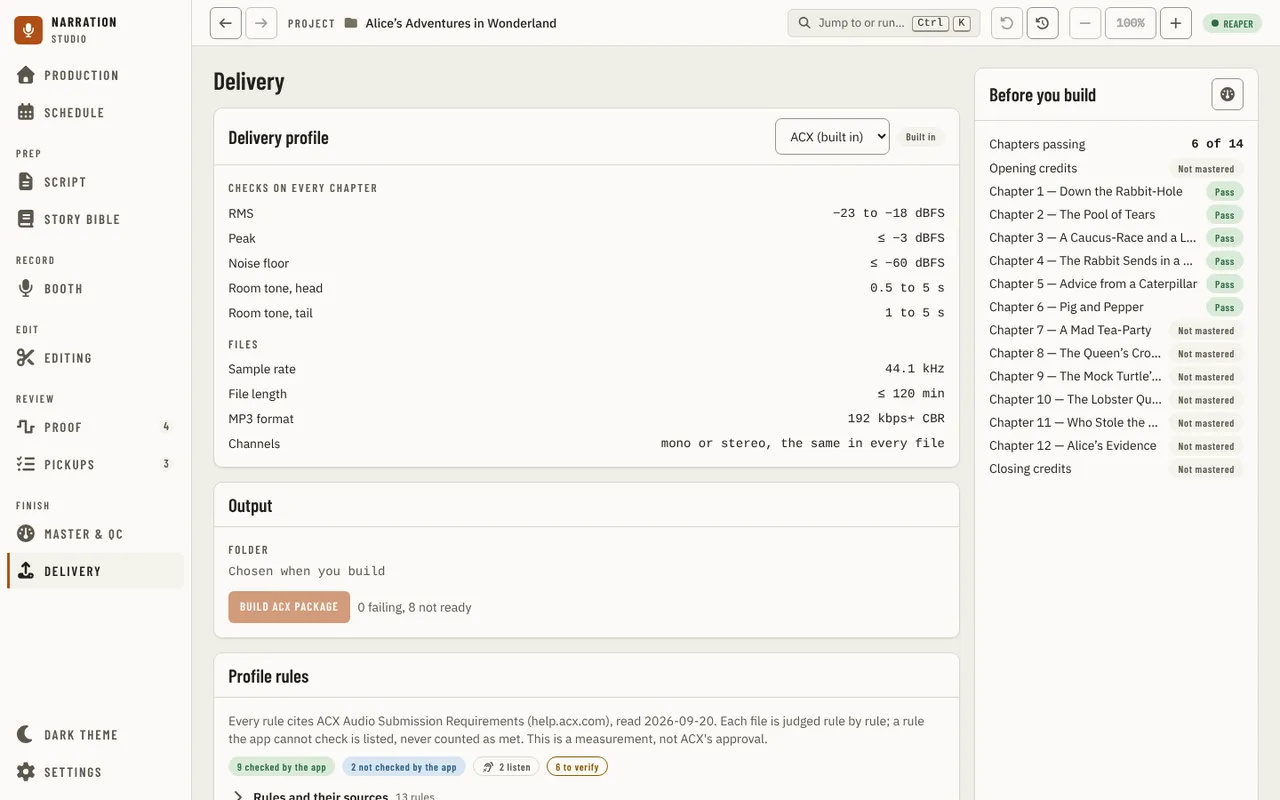
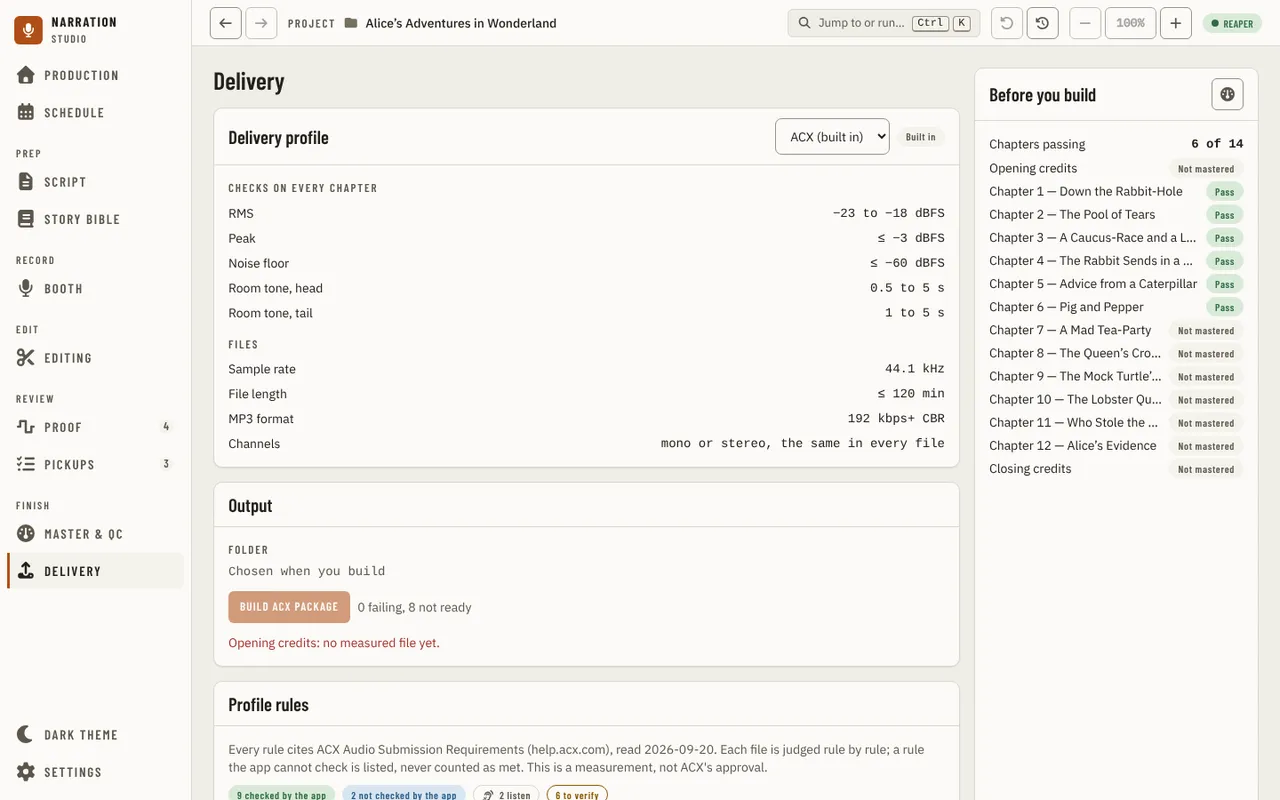
fix(ui): name the first not-ready chapter beside Build and test the failure line
Refs #1852

Claude-Session: https://claude.ai/code/session_01AC84YQNKHsqeHpGiLmKtHK

Changed region(s): [[0.1562, 0.7812, 0.75, 1.0]]

diff --git a/apps/ui/src/components/master/fileVerdict.test.ts b/apps/ui/src/components/master/fileVerdict.test.ts
@@ -3,8 +3,8 @@ import { join } from 'node:path';
 import { describe, expect, it } from 'vitest';
 import { MOCK_ACX } from '../../api/deliveryProfilesMock';
 import { measureJobSchema } from '../../api/schemas/measure';
-import type { MeasureFileResult } from '../../types';
-import { fileVerdict, leftToCheck, misses, suggestedFix } from './fileVerdict';
+import type { DeliveryProfile, DeliveryRule, DeliveryRuleResult, MeasureFileResult } from '../../types';
+import { fileVerdict, leftToCheck, misses, missesWithLimit, suggestedFix } from './fileVerdict';
 
 // The host's own judged payload (bindings_measure_contract_test.go): Chapter 01 at 48 kHz, Chapter 02 silent, Chapter 03 unreadable.
 const measured = measureJobSchema.parse(
@@ -47,5 +47,55 @@ describe('misses', () => {
     expect(suggestedFix(noise, { ruleId: noise.id, status: 'not_met', value: -57.8, violation: 'above_max' })).toMatch(
       /^Mastering does not lower the noise floor/,
     );
+  });
+});
+
+describe('missesWithLimit', () => {
+  const rule = (over: Partial<DeliveryRule>): DeliveryRule => ({
+    ...MOCK_ACX.rules[0],
+    min: null,
+    max: null,
+    oneOf: [],
+    sameAcrossFiles: false,
+    unit: '',
+    ...over,
+  });
+  const against = (...rules: DeliveryRule[]): DeliveryProfile => ({ ...MOCK_ACX, rules });
+  const missed = (target: DeliveryRule, value: number | null, violation: DeliveryRuleResult['violation'] = 'above_max'): MeasureFileResult => ({
+    ...file('Chapter 01.wav'),
+    rules: [{ ruleId: target.id, status: 'not_met', value, violation }],
+  });
+
+  it('says the value and the limit of a level, a duration and a sample rate in the units a narrator reads', () => {
+    const noise = rule({ id: 'n', label: 'Noise floor', metric: 'noise_floor_dbfs', unit: 'dBFS', max: -60 });
+    expect(missesWithLimit(missed(noise, -57.8), against(noise))).toEqual(['noise floor −57.8 dBFS (limit ≤ −60 dBFS)']);
+    const length = rule({ id: 'd', label: 'Length', metric: 'duration_seconds', unit: 's', max: 7200 });
+    expect(missesWithLimit(missed(length, 7500), against(length))).toEqual(['length 2:05:00 (limit ≤ 120 min)']);
+    const rate = rule({ id: 'r', label: 'Sample rate', metric: 'sample_rate', unit: 'Hz', oneOf: [44100] });
+    expect(missesWithLimit(missed(rate, 48000, 'not_one_of'), against(rate))).toEqual(['sample rate 48 kHz (limit 44.1 kHz)']);
+  });
+
+  it('reads a one-of rule that must match in every file, and a rule with a limit in words', () => {
+    const rate = rule({ id: 'r', label: 'Sample rate', metric: 'sample_rate', unit: 'Hz', oneOf: [44100, 48000], sameAcrossFiles: true });
+    expect(missesWithLimit(missed(rate, 32000, 'not_one_of'), against(rate))).toEqual([
+      'sample rate 32 kHz (limit 44.1 kHz or 48 kHz, the same in every file)',
+    ]);
+    const bitrate = rule({ id: 'b', label: 'Bit rate', metric: 'bitrate', boundText: '192 kbps+ CBR' });
+    expect(missesWithLimit(missed(bitrate, 128), against(bitrate))).toEqual(['bit rate 128 (limit 192 kbps+ CBR)']);
+  });
+
+  it('leaves out the value a missed rule has none of, and the limit a rule has no text for, and still names the rule', () => {
+    const noise = rule({ id: 'n', label: 'Noise floor', metric: 'noise_floor_dbfs', unit: 'dBFS', max: -60 });
+    expect(missesWithLimit(missed(noise, null), against(noise))).toEqual(['noise floor (limit ≤ −60 dBFS)']);
+    const open = rule({ id: 'o', label: 'Peak', metric: 'sample_peak_dbfs', unit: 'dBFS' });
+    expect(missesWithLimit(missed(open, -1.5), against(open))).toEqual(['peak −1.5 dBFS']);
+    expect(missesWithLimit(missed(open, null), against(open))).toEqual(['peak']);
+  });
+
+  it('skips a miss whose rule the profile no longer has, and any rule that was met', () => {
+    const noise = rule({ id: 'n', label: 'Noise floor', metric: 'noise_floor_dbfs', unit: 'dBFS', max: -60 });
+    expect(missesWithLimit(missed(noise, -57.8), against())).toEqual([]);
+    const met: MeasureFileResult = { ...file('Chapter 01.wav'), rules: [{ ruleId: noise.id, status: 'met', value: -64 }] };
+    expect(missesWithLimit(met, against(noise))).toEqual([]);
   });
 });

diff --git a/apps/ui/src/components/delivery/page/chapterStates.test.ts b/apps/ui/src/components/delivery/page/chapterStates.test.ts
@@ -1,0 +1,44 @@
+import { describe, expect, it } from 'vitest';
+import type { MeasureFileResult } from '../../../types';
+import { failingTwo, passing, profile, waiting } from '../../masterqc/files/testFiles';
+import { firstFailure, firstNotReady } from './chapterStates';
+
+const chapters = [1, 2, 3, 4].map((n) => ({ id: `c${n}`, title: `Chapter 0${n}`, index: n - 1 }));
+const all = [passing('Chapter 01.wav'), passing('Chapter 02.wav'), passing('Chapter 03.wav'), passing('Chapter 04.wav')];
+const withFile = (index: number, file: MeasureFileResult) => all.map((each, at) => (at === index ? file : each));
+
+describe('firstNotReady', () => {
+  it('names nothing when every chapter has a verdict, a failing one included', () => {
+    expect(firstNotReady(chapters, all)).toBeUndefined();
+    expect(firstNotReady(chapters, withFile(3, failingTwo('Chapter 04.wav')))).toBeUndefined();
+  });
+
+  it('names the first chapter with no file at all', () => {
+    expect(firstNotReady(chapters, all.slice(0, 2))).toBe('Chapter 03: no measured file yet.');
+    expect(firstNotReady(chapters, all.slice(2))).toBe('Chapter 01: no measured file yet.');
+  });
+
+  it('names nothing on a book nobody has measured, where the count beside Build already says so', () => {
+    expect(firstNotReady(chapters, [])).toBeUndefined();
+  });
+
+  it('says why a chapter whose file is there is not ready: not measured yet, unreadable, partly unmeasurable, or nothing judged', () => {
+    expect(firstNotReady(chapters, withFile(1, { ...passing('Chapter 02.wav'), status: 'pending', rules: [] }))).toBe(
+      'Chapter 02: its file is not measured yet.',
+    );
+    expect(firstNotReady(chapters, withFile(1, { ...passing('Chapter 02.wav'), status: 'failed', rules: [] }))).toBe('Chapter 02: its file could not be read.');
+    expect(firstNotReady(chapters, withFile(2, waiting('Chapter 03.wav')))).toBe('Chapter 03: its file is not measured yet.');
+    const unjudged = { ...passing('Chapter 03.wav'), rules: passing('Chapter 03.wav').rules.map((rule) => ({ ...rule, status: 'not_checked' as const })) };
+    expect(firstNotReady(chapters, withFile(2, unjudged))).toBe('Chapter 03: the app judged nothing about its file.');
+    const silent = {
+      ...passing('Chapter 03.wav'),
+      rules: passing('Chapter 03.wav').rules.map((rule, at) => (at === 0 ? { ...rule, status: 'not_measurable' as const, value: null } : rule)),
+    };
+    expect(firstNotReady(chapters, withFile(2, silent))).toBe('Chapter 03: part of its file could not be measured.');
+  });
+
+  it('leaves a failing chapter to firstFailure, which names its rule, value and limit', () => {
+    const files = withFile(3, failingTwo('Chapter 04.wav')).slice(0, 4);
+    expect(firstFailure(chapters, files, profile)).toMatch(/^Chapter 04: noise floor/);
+  });
+});

diff --git a/apps/ui/tests/visual/catalog/delivery.ts b/apps/ui/tests/visual/catalog/delivery.ts
@@ -15,7 +15,19 @@ export const deliveryStates: StateEntry[] = [
     page: 'delivery',
     state: 'measured',
     description:
-      'Delivery with the book already checked (?mockMeasure=spread) - "Before you build" counting the chapters that pass, each row opening the chapter in Master & QC, and Output asking to master to spec first',
+      'Delivery with the book already checked (?mockMeasure=spread) - "Before you build" counting the chapters that pass, each row opening the chapter in Master & QC, and Output with Build off, counting the chapters not ready and naming the first of them in red ("Opening credits: no measured file yet.")',
+  },
+  {
+    page: 'delivery',
+    state: 'failing-chapter',
+    description:
+      'Delivery after Master & QC measured three files (the first at 48 kHz, the second silent, the third unreadable) - Build off, "1 failing, ..." and, in red under it, the first failing chapter with its rule, value and limit ("Chapter 1 — Down the Rabbit-Hole: sample rate 48 kHz (limit 44.1 kHz).")',
+  },
+  {
+    page: 'delivery',
+    state: 'many-chapters',
+    description:
+      'Delivery for a 5002-chapter book (?mockBooth=many-chapters) - the first hundred chapters listed under "Before you build", the count above them for the whole book, and "Show the other 4902 chapters" below the list',
   },
   {
     page: 'delivery',
@@ -57,7 +69,7 @@ export const deliveryStates: StateEntry[] = [
     page: 'delivery',
     state: 'host-quiet',
     description:
-      'Delivery with a build running and the host no longer answering (?mockDelivery=quiet) - "Can\'t tell how the build is going, last heard N s ago" with Check again, Cancel still offered',
+      'Delivery with a build running and the host no longer answering (?mockDelivery=quiet) - "Can\'t tell how the build is going, last heard N s ago" with Check again, Cancel still offered, and no "Every chapter passes." beside Build (it would be a stale fact)',
   },
   {
     page: 'delivery',

diff --git a/apps/ui/src/components/delivery/page/chapterStates.ts b/apps/ui/src/components/delivery/page/chapterStates.ts
@@ -41,6 +41,30 @@ export function firstFailure(chapters: readonly Listed[], files: readonly Measur
   return undefined;
 }
 
+/**
+ * When no chapter fails but some are not ready, the first of them in the rows' order and why: "Chapter 8: no measured file yet." (no file
+ * matches), "Chapter 8: not measured yet." / "could not be read." (its file is pending, cancelled or failed), or "Chapter 8: noise floor could not
+ * be measured." (a silent render). Nothing when every chapter has a verdict, or when no file was measured at all: the count beside Build
+ * already says that, and a red first chapter on an untouched book would only repeat it.
+ */
+export function firstNotReady(chapters: readonly Listed[], files: readonly MeasureFileResult[]): string | undefined {
+  if (files.length === 0) return undefined;
+  for (const chapter of chapters) {
+    const file = fileOf(chapter, files);
+    if (file && fileVerdict(file) !== 'none') continue;
+    return `${chapterName(chapter)}: ${notReadyWhy(file)}.`;
+  }
+  return undefined;
+}
+
+function notReadyWhy(file: MeasureFileResult | undefined): string {
+  if (!file) return 'no measured file yet';
+  if (file.status === 'failed') return 'its file could not be read';
+  if (file.status !== 'measured') return 'its file is not measured yet';
+  // The line says "measured" and fileVerdict said "none": either a rule could not be measured, or nothing was judged at all.
+  return file.rules.some((rule) => rule.status === 'not_measurable') ? 'part of its file could not be measured' : 'the app judged nothing about its file';
+}
+
 /** One row's state from its file: no file, or a file the host did not judge, is "Not mastered". */
 export function stateOf(base: { id: string; name: string }, file: MeasureFileResult | undefined): ChapterState {
   const verdict = file ? fileVerdict(file) : 'none';

diff --git a/apps/ui/tests/visual/drivers/delivery.ts b/apps/ui/tests/visual/drivers/delivery.ts
@@ -1,6 +1,6 @@
 // How to reach each `delivery` state in STATE_CATALOG (see app.drivers.ts).
 import { settlePage } from '../helpers/settle';
-import { type Driver, goToPage, panelTitled, scrollToTop } from './shared';
+import { type Driver, goToPage, measureOnMaster, measurementEnded, panelTitled, scrollToTop } from './shared';
 
 // Opens Delivery through the rail (after a reload with mock seams, when given) once the profile card and the chapters are read.
 async function openDelivery(page: Parameters<Driver>[0], query = ''): Promise<void> {
@@ -28,6 +28,16 @@ export const deliveryDrivers: Record<string, Driver> = {
   },
   measured: async (page) => {
     await openDelivery(page, '?mockMeasure=spread');
+  },
+  'failing-chapter': async (page) => {
+    await measureOnMaster(page);
+    await measurementEnded(page, /^Measured 2 of 3 files; 1 could not be measured\./);
+    await goToPage(page, 'Delivery');
+    await page.getByText(/^Chapter 1 — Down the Rabbit-Hole: sample rate 48 kHz \(limit 44\.1 kHz\)\.$/).waitFor();
+  },
+  'many-chapters': async (page) => {
+    await openDelivery(page, '?mockBooth=many-chapters');
+    await page.getByRole('button', { name: /^Show the other \d+ chapters$/ }).waitFor();
   },
   'custom-profile': async (page) => {
     await openDelivery(page, '?mockDeliveryProfile=custom');
@@ -62,6 +72,7 @@ export const deliveryDrivers: Record<string, Driver> = {
     await openReady(page, 'quiet');
     await buildButton(page).click();
     await page.getByRole('alert').filter({ hasText: "Can't tell how the build is going" }).waitFor();
+    await page.getByText('Every chapter passes.').waitFor({ state: 'hidden' });
   },
   'host-quiet-cancelled': async (page) => {
     await openReady(page, 'quiet');

diff --git a/apps/ui/src/App.test.tsx b/apps/ui/src/App.test.tsx
@@ -327,6 +327,27 @@ describe('App (integration, driven through the mock NarrationApi)', () => {
     expect(screen.queryByText('Manuscript imported.')).toBeNull();
   });
 
+  it('does not toast a failed package build on Delivery, which writes the reason under Build, and does toast it on another page', async () => {
+    const listeners = new Set<(event: JobEnded) => void>();
+    const announce = (event: JobEnded) => listeners.forEach((each) => each(event));
+    const failed: JobEnded = { id: 'pkg-1', kind: 'render_package', outcome: 'error', message: 'Access is denied.', durationMs: 900 };
+    window.history.replaceState(null, '', '/delivery');
+    renderApp({
+      subscribeJobEnded: (listener) => {
+        listeners.add(listener);
+        return () => listeners.delete(listener);
+      },
+    });
+    await screen.findByRole('heading', { level: 1, name: 'Delivery' });
+    act(() => announce(failed));
+    expect(screen.queryByText('Access is denied.')).toBeNull();
+
+    fireEvent.click(screen.getAllByRole('button', { name: 'Settings' })[0]);
+    await screen.findByRole('heading', { name: 'Settings' });
+    act(() => announce(failed));
+    expect(within(appToasts('alert')).getByText('Access is denied.')).toBeTruthy();
+  });
+
   it('queues a job-end toast while the booth is recording, and shows it once recording stops (no sound or notification mid-take)', async () => {
     let announce: ((event: JobEnded) => void) | undefined;
     // Every subscriber hears the transport (the Booth page subscribes too, beside App's toast guard).

diff --git a/apps/ui/src/components/delivery/page/DeliveryPage.tsx b/apps/ui/src/components/delivery/page/DeliveryPage.tsx
@@ -6,7 +6,7 @@ import { NeedManuscript } from '../../layout/NeedManuscript';
 import { Heading } from '../../primitives/Heading';
 import type { DeliveryProfile } from '../../../types';
 import { ProfileCard } from '../profile/ProfileCard';
-import { chapterStates, firstFailure, listedChapters, readiness } from './chapterStates';
+import { chapterStates, firstFailure, firstNotReady, listedChapters, readiness } from './chapterStates';
 import { OutputPanel } from './OutputPanel';
 import { Preflight } from './Preflight';
 import { useDeliveryBuild } from './useDeliveryBuild';
@@ -66,7 +66,7 @@ function LoadedDelivery({ onOpenInMaster, onOpenMaster }: { onOpenInMaster: (cha
   const entries = creditsEntries(credits.rows, ownsOpeningCredits(chapters));
   const listed = known ? listedChapters(chapters, entries) : [];
   const states = known ? chapterStates(listed, job.files) : [];
-  const failure = known && profile ? firstFailure(listed, job.files, profile) : undefined;
+  const failure = known && profile ? (firstFailure(listed, job.files, profile) ?? firstNotReady(listed, job.files)) : undefined;
   const { ready, text } = known ? readiness(states) : { ready: false, text: "Can't tell which chapters pass yet." };
   const measuring = job?.phase === 'running' ? job : undefined;
   return (

diff --git a/docs/guides/using-the-app/delivery.md b/docs/guides/using-the-app/delivery.md
@@ -64,9 +64,12 @@ no package was built. A package cannot be saved inside the project's own `narrat
 
 Build is on once every chapter passes, and files have been mastered and encoded in Master & QC. Until then it
 says how many chapters fail and how many are not ready, that there are no chapters, that you must master all
-to spec in Master & QC first, or that Master & QC is still preparing the files. While Build is off for a failing
-chapter, a red line under it names the first one, the rule it misses, its value and the limit ("Chapter 8: noise
-floor −57.8 dBFS (limit ≤ −60 dBFS), and 1 more rule."), so you do not have to open Master & QC to learn why.
+to spec in Master & QC first, or that Master & QC is still preparing the files. While Build is off, a red line
+under it names the first chapter in the way, so you do not have to open Master & QC to learn why. For a failing
+chapter it gives the rule it misses, its value and the limit ("Chapter 8: noise floor −57.8 dBFS (limit ≤ −60
+dBFS), and 1 more rule."). When no chapter fails, it names the first chapter that is not ready and why: it has no
+measured file, its file is not measured yet or could not be read, or part of it could not be measured. Until
+something is measured, the line is left off and the count beside Build says so.
 
 ![Delivery with every chapter passing and the files encoded: Build ACX package is on](../../images/ui/delivery-ready.webp)
 
